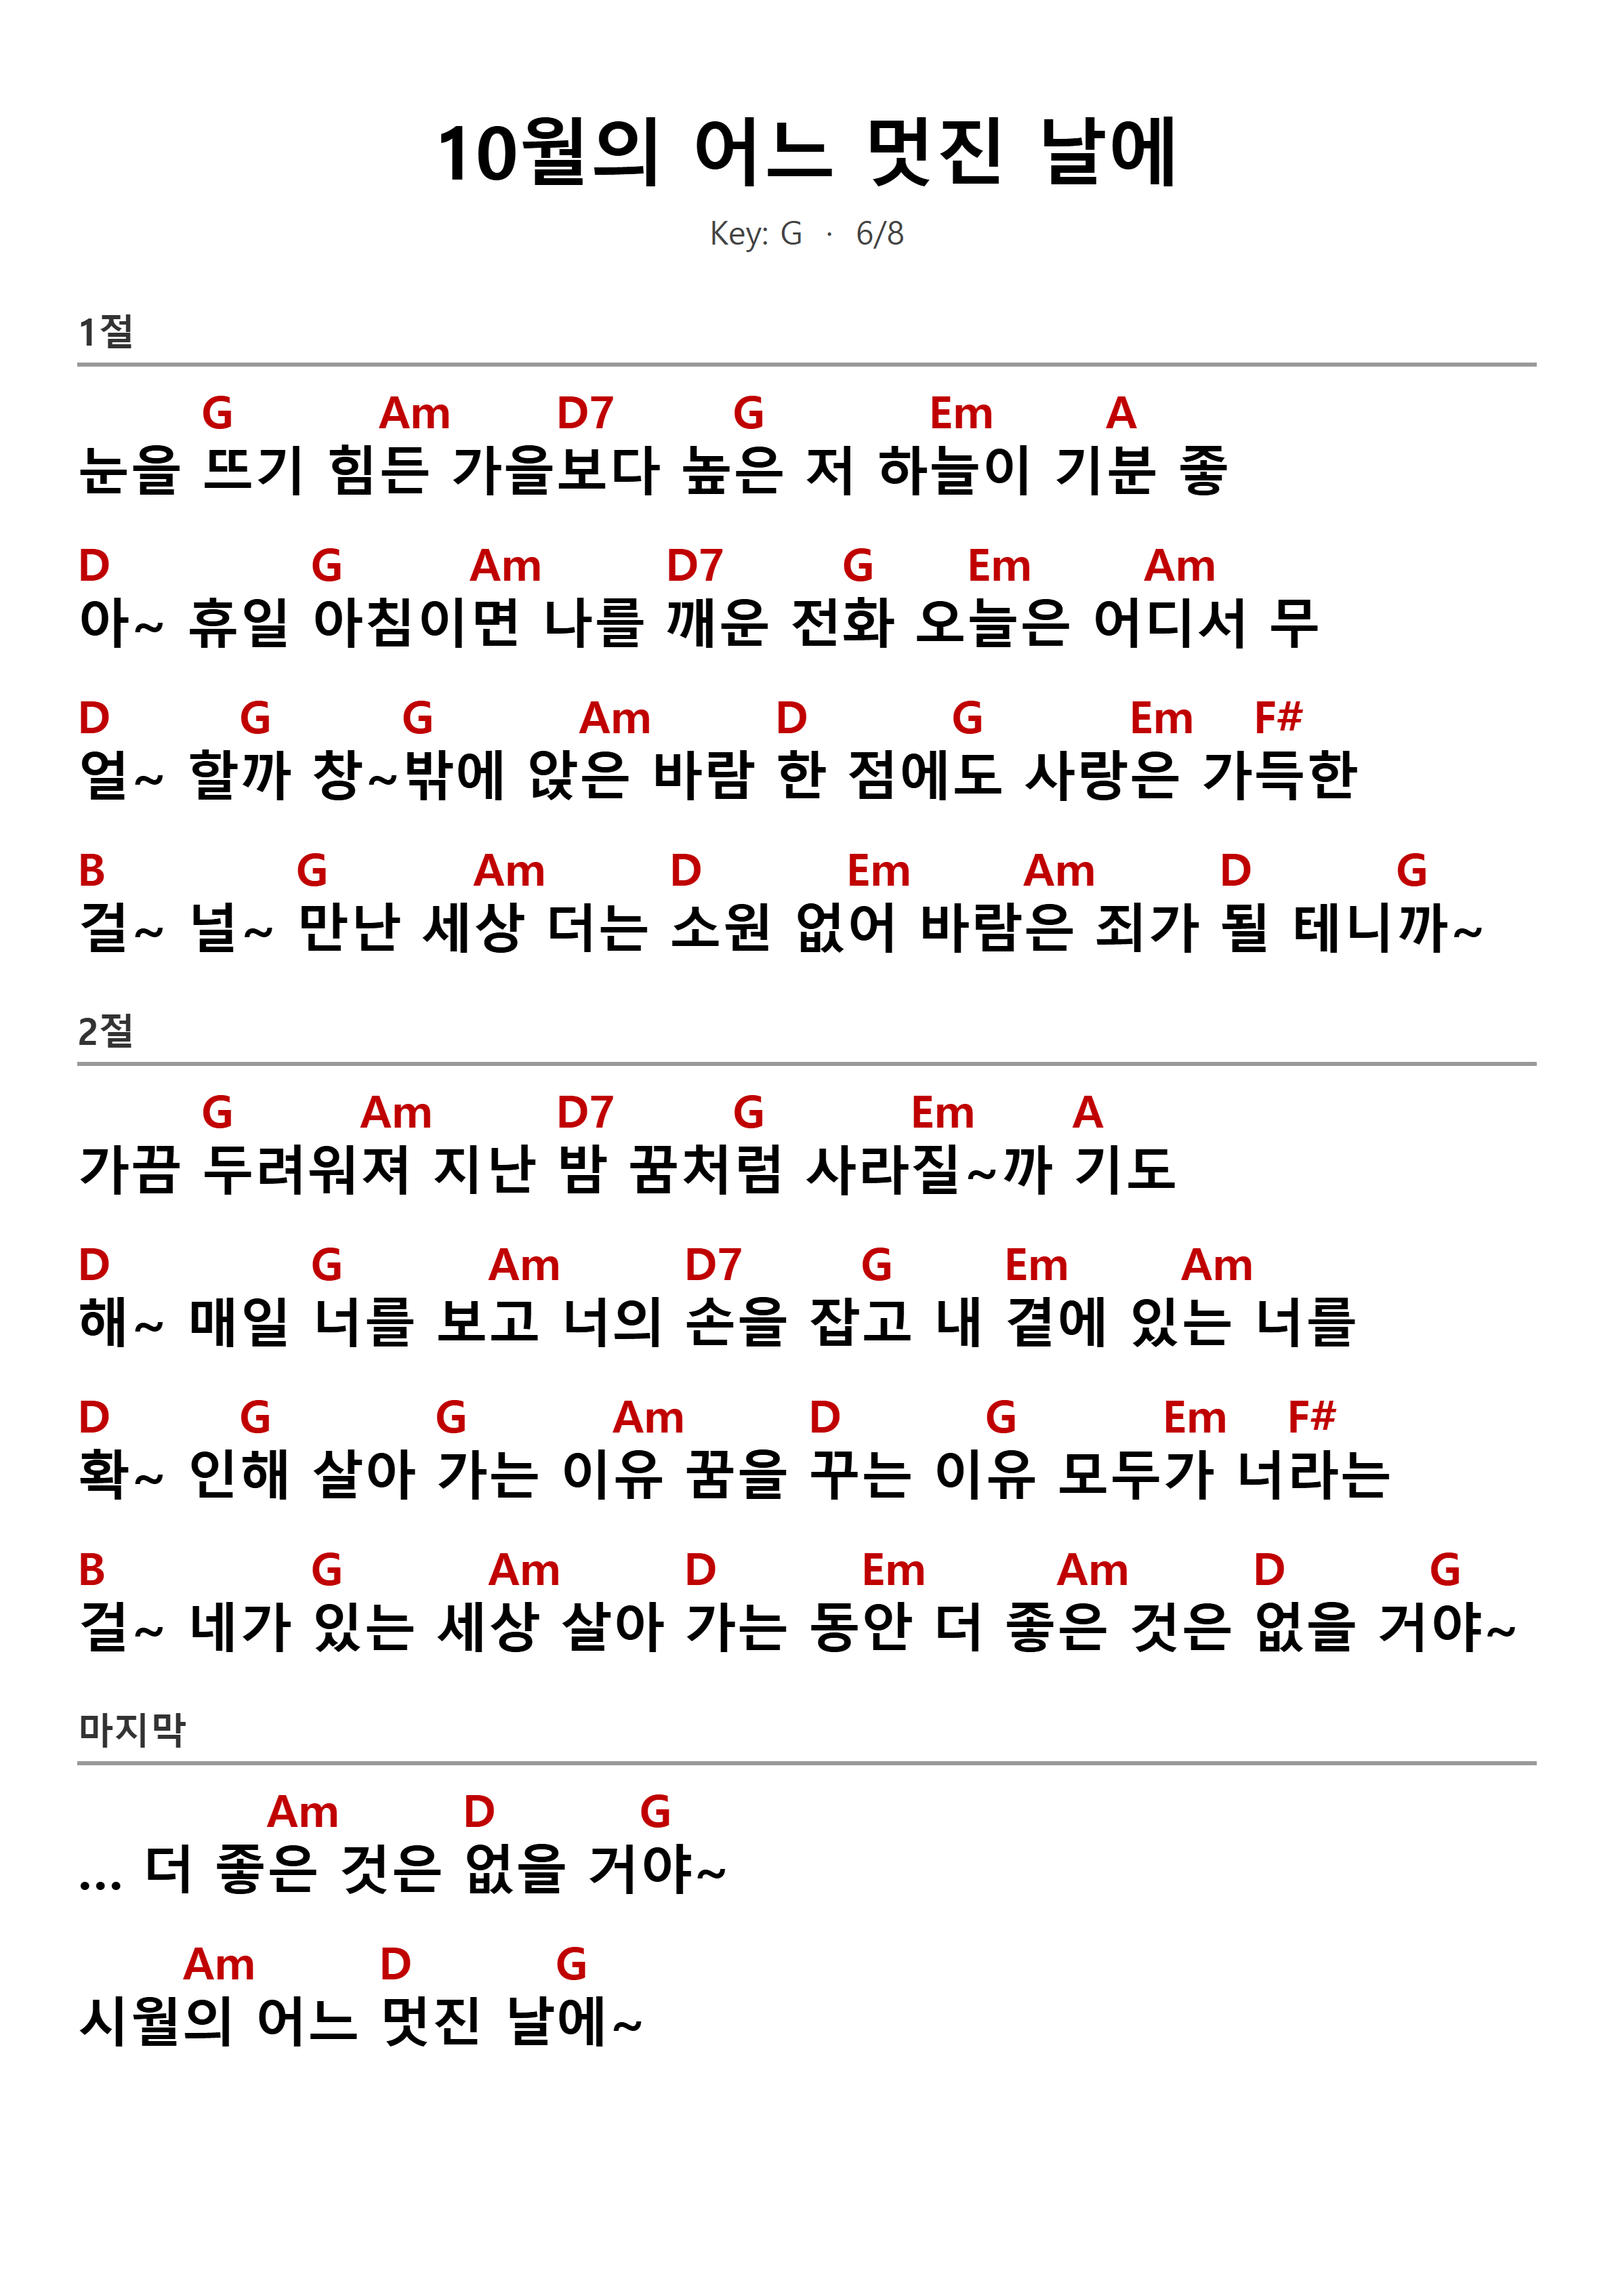
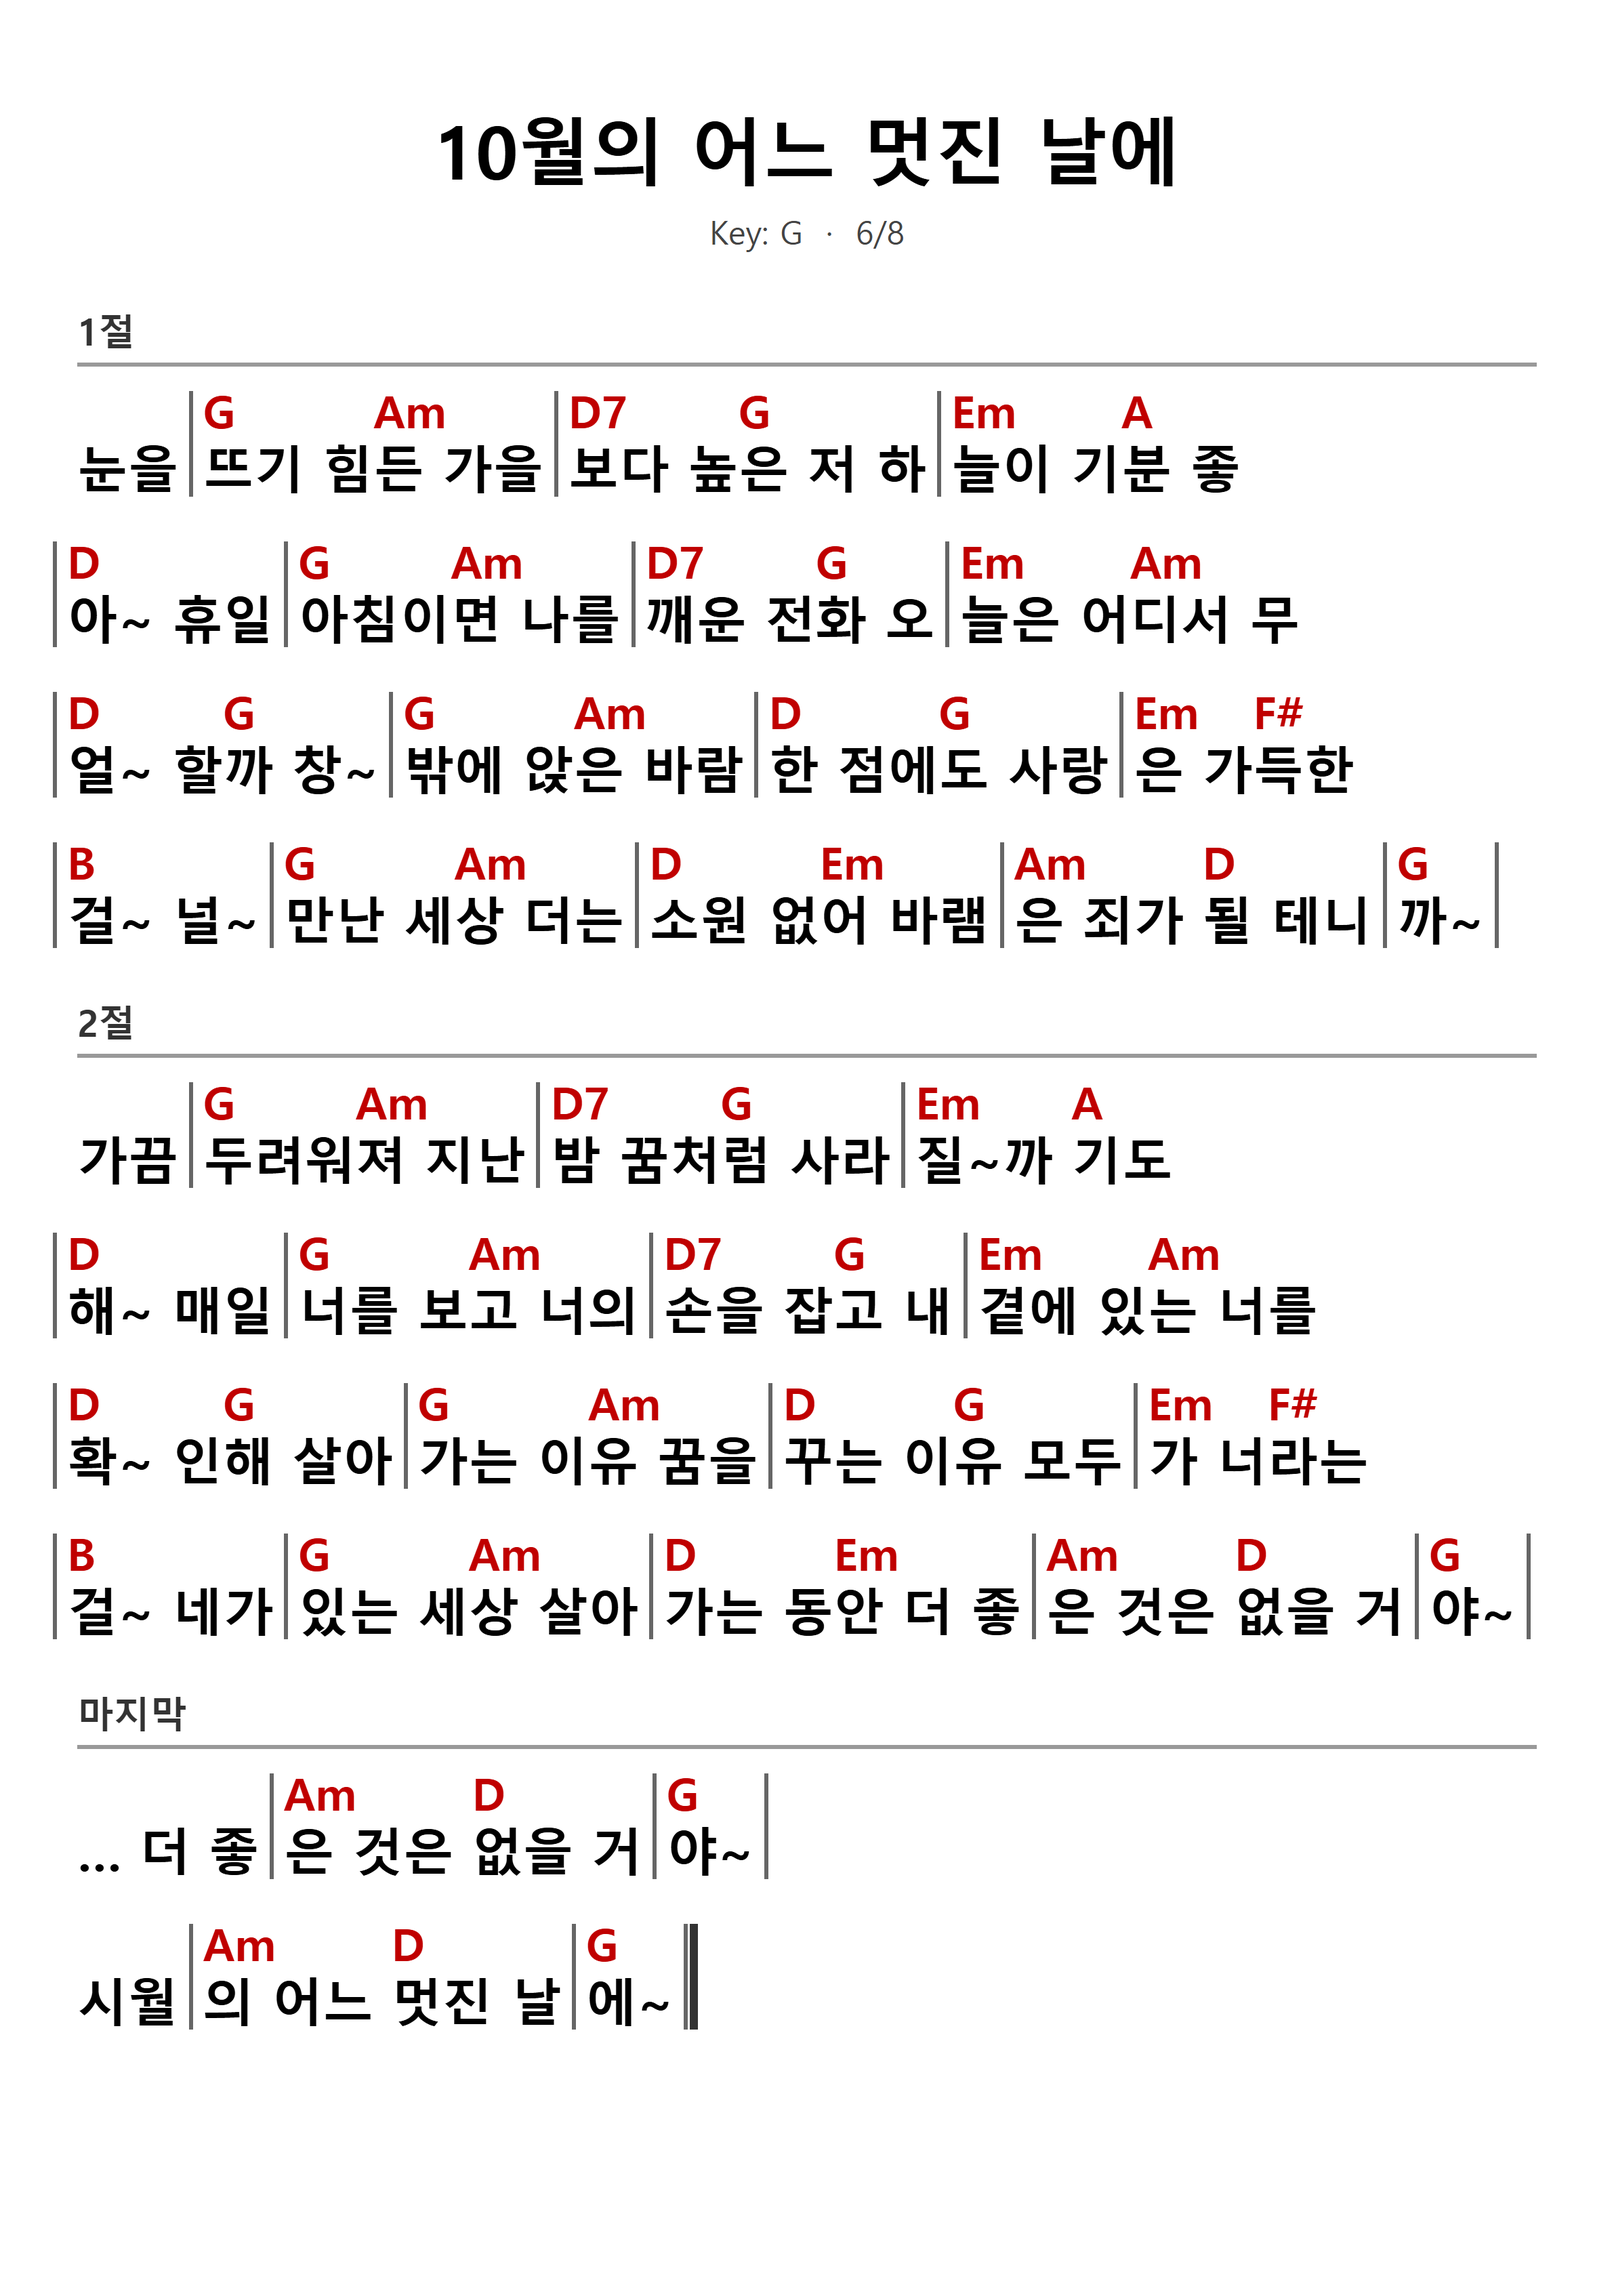
sheet

Changed region(s): [[0.0311, 0.1558, 0.9631, 0.9038]]

diff --git a/A코드_145_회상 산울림_가사코드.html b/A코드_145_회상 산울림_가사코드.html
@@ -1,0 +1,92 @@
+<!doctype html>
+<html lang="ko">
+<head>
+<meta charset="utf-8">
+<title>회상 - 산울림 (가사·코드)</title>
+<style>
+  @page { size: A4; margin: 0; }
+  * { -webkit-print-color-adjust: exact; print-color-adjust: exact; }
+  :root { --ly: 26px; --ch: 22px; }
+  html, body { margin: 0; background: #fff; color: #000; font-family: "Malgun Gothic", "맑은 고딕", sans-serif; }
+  .page { box-sizing: border-box; width: 210mm; height: 297mm; margin: 0 auto; padding: 15mm 10mm 10mm; overflow: hidden; }
+  h1 { text-align: center; font-size: 36px; margin: 0 0 6px; }
+  .info { text-align: center; color: #444; font-size: 16px; margin-bottom: 26px; }
+  .stanza { margin-bottom: 30px; }
+  .line { margin: 0 0 18px; line-height: 1; white-space: nowrap; }
+  .seg { display: inline-block; vertical-align: bottom; }
+  .seg b { display: block; height: calc(var(--ch) * 1.25); font-size: var(--ch); color: #C00000; font-weight: 800; }
+  .seg span { display: block; font-size: var(--ly); font-weight: bold; white-space: pre; }
+  .bar { display: inline-block; vertical-align: bottom; box-sizing: border-box; width: 2px; height: calc(var(--ch) * 1.25 + var(--ly)); margin: 0 5px -2px; background: #666; }
+  .line > .bar:first-child { margin-left: -12px; }
+  .bar.end { width: 7px; background: none; border-left: 2px solid #666; border-right: 4px solid #333; }
+</style>
+</head>
+<body>
+<div class="page">
+  <h1>회상</h1>
+  <div class="info">산울림 &nbsp;·&nbsp; Key: A</div>
+  <div id="song"></div>
+</div>
+<script>
+// [코드]는 바로 뒤 음절 위에 표시, | 는 마디선, || 는 끝마디선
+const song = [
+  [
+    "길을 걸었|[A]지 [A7]누군가 옆에 있|[D]다고 느꼈을|[A]때 나는 알아버|[E]렸[E7]네",
+    "이미 그대 떠난|[A]후라는 [A7]걸 나는 혼자 걷|[D]고 있던 거지",
+    "|[A]갑자기|[E]바람이 차가워|[A]지네",
+  ],
+  [
+    "마음은|[A]얼고 나는 그 곳에|[D]서서 조금|[A]도 움직일 수|[E]없었[E7]지",
+    "마치 얼어버린|[A]사람처럼 나는 놀라서|[D]있던 거지",
+    "|[A]달빛이|[E]숨어 흐느끼고|[A]있네",
+  ],
+  [
+    "|[D]음- 떠나버린|[A]그 사람|[D]음- 생각|[A]나[A7]네",
+    "|[D]음- 돌아선|[A]그 사람|[D]음- 생각나|[E]네",
+  ],
+  [
+    "묻지 않|[A]았지 왜 나를 떠나느냐|[D]고 하|[A]지만 마음 너무 아|[E]팠[E7]네",
+    "이미 그대 돌아|[A]서 있는 걸 혼자 어쩔 수|[D]없었지",
+    "|[A]미운 건|[E]오히려 나|[A]였어",
+    "|[A]갑자기|[E]바람이 차가워|[A]지네||",
+  ],
+];
+
+const root = document.getElementById("song");
+for (const lines of song) {
+  const stanza = document.createElement("div");
+  stanza.className = "stanza";
+  root.appendChild(stanza);
+  for (const line of lines) {
+    const div = document.createElement("div");
+    div.className = "line";
+    for (const part of line.split(/(\|\|?)|(?=\[)/).filter(Boolean)) {
+      if (part[0] === "|") {
+        const bar = document.createElement("span");
+        bar.className = part === "||" ? "bar end" : "bar";
+        div.appendChild(bar);
+        continue;
+      }
+      const m = part.match(/^\[([^\]]+)\](.*)$/);
+      const seg = document.createElement("span");
+      seg.className = "seg";
+      seg.innerHTML = `<b>${m ? m[1] : ""}</b><span></span>`;
+      seg.lastChild.textContent = m ? m[2] : part;
+      div.appendChild(seg);
+    }
+    stanza.appendChild(div);
+  }
+}
+
+// A4 한 장의 폭과 높이에 맞을 때까지 글자 크기를 줄임
+const page = document.querySelector(".page");
+const lineEls = [...document.querySelectorAll(".line")];
+for (let ly = 28; ly >= 16; ly--) {
+  document.documentElement.style.setProperty("--ly", ly + "px");
+  document.documentElement.style.setProperty("--ch", Math.round(ly * 0.85) + "px");
+  const tooWide = lineEls.some(l => l.scrollWidth > l.clientWidth);
+  if (!tooWide && page.scrollHeight <= page.clientHeight) break;
+}
+</script>
+</body>
+</html>

diff --git a/G코드_1256_10월의어느멋진날에_가사코드.html b/G코드_1256_10월의어느멋진날에_가사코드.html
@@ -14,7 +14,10 @@
   .line { margin: 0 0 22px; line-height: 1; white-space: nowrap; }
   .seg { display: inline-block; vertical-align: bottom; }
   .seg b { display: block; height: 27px; font-size: 22px; color: #c00000; font-weight: 800; }
-  .seg span { display: block; font-size: 26px; font-weight: bold; white-space: pre; }
+  .seg span { display: block; font-size: 25px; font-weight: bold; white-space: pre; }
+  .bar { display: inline-block; vertical-align: bottom; box-sizing: border-box; width: 2px; height: 52px; margin: 0 5px -2px; background: #666; }
+  .line > .bar:first-child { margin-left: -12px; }
+  .bar.end { width: 7px; background: none; border-left: 2px solid #666; border-right: 4px solid #333; }
 </style>
 </head>
 <body>
@@ -24,23 +27,23 @@
   <div id="song"></div>
 </div>
 <script>
-// [코드]는 바로 뒤 음절 위에 표시
+// [코드]는 바로 뒤 음절 위에 표시, | 는 마디선, || 는 끝마디선
 const song = [
   ["1절", [
-    "눈을 [G]뜨기 힘[Am]든 가을[D7]보다 높[G]은 저 하[Em]늘이 기[A]분 좋",
-    "[D]아~ 휴일 [G]아침이[Am]면 나를 [D7]깨운 전[G]화 오[Em]늘은 어[Am]디서 무",
-    "[D]얼~ 할[G]까 창~[G]밖에 앉[Am]은 바람 [D]한 점에[G]도 사랑[Em]은 가[F#]득한",
-    "[B]걸~ 널~ [G]만난 세[Am]상 더는 [D]소원 없[Em]어 바람[Am]은 죄가 [D]될 테니[G]까~",
+    "눈을|[G]뜨기 힘[Am]든 가을|[D7]보다 높[G]은 저 하|[Em]늘이 기[A]분 좋",
+    "|[D]아~ 휴일|[G]아침이[Am]면 나를|[D7]깨운 전[G]화 오|[Em]늘은 어[Am]디서 무",
+    "|[D]얼~ 할[G]까 창~|[G]밖에 앉[Am]은 바람|[D]한 점에[G]도 사랑|[Em]은 가[F#]득한",
+    "|[B]걸~ 널~|[G]만난 세[Am]상 더는|[D]소원 없[Em]어 바램|[Am]은 죄가 [D]될 테니|[G]까~|",
   ]],
   ["2절", [
-    "가끔 [G]두려워[Am]져 지난 [D7]밤 꿈처[G]럼 사라[Em]질~까 [A]기도",
-    "[D]해~ 매일 [G]너를 보[Am]고 너의 [D7]손을 잡[G]고 내 [Em]곁에 있[Am]는 너를",
-    "[D]확~ 인[G]해 살아 [G]가는 이[Am]유 꿈을 [D]꾸는 이[G]유 모두[Em]가 너[F#]라는",
-    "[B]걸~ 네가 [G]있는 세[Am]상 살아 [D]가는 동[Em]안 더 좋[Am]은 것은 [D]없을 거[G]야~",
+    "가끔|[G]두려워[Am]져 지난|[D7]밤 꿈처[G]럼 사라|[Em]질~까 [A]기도",
+    "|[D]해~ 매일|[G]너를 보[Am]고 너의|[D7]손을 잡[G]고 내|[Em]곁에 있[Am]는 너를",
+    "|[D]확~ 인[G]해 살아|[G]가는 이[Am]유 꿈을|[D]꾸는 이[G]유 모두|[Em]가 너[F#]라는",
+    "|[B]걸~ 네가|[G]있는 세[Am]상 살아|[D]가는 동[Em]안 더 좋|[Am]은 것은 [D]없을 거|[G]야~|",
   ]],
   ["마지막", [
-    "… 더 좋[Am]은 것은 [D]없을 거[G]야~",
-    "시월[Am]의 어느 [D]멋진 날[G]에~",
+    "… 더 좋|[Am]은 것은 [D]없을 거|[G]야~|",
+    "시월|[Am]의 어느 [D]멋진 날|[G]에~||",
   ]],
 ];
 
@@ -52,7 +55,13 @@ for (const [name, lines] of song) {
   for (const line of lines) {
     const div = document.createElement("div");
     div.className = "line";
-    for (const part of line.split(/(?=\[)/)) {
+    for (const part of line.split(/(\|\|?)|(?=\[)/).filter(Boolean)) {
+      if (part[0] === "|") {
+        const bar = document.createElement("span");
+        bar.className = part === "||" ? "bar end" : "bar";
+        div.appendChild(bar);
+        continue;
+      }
       const m = part.match(/^\[([^\]]+)\](.*)$/);
       const seg = document.createElement("span");
       seg.className = "seg";
